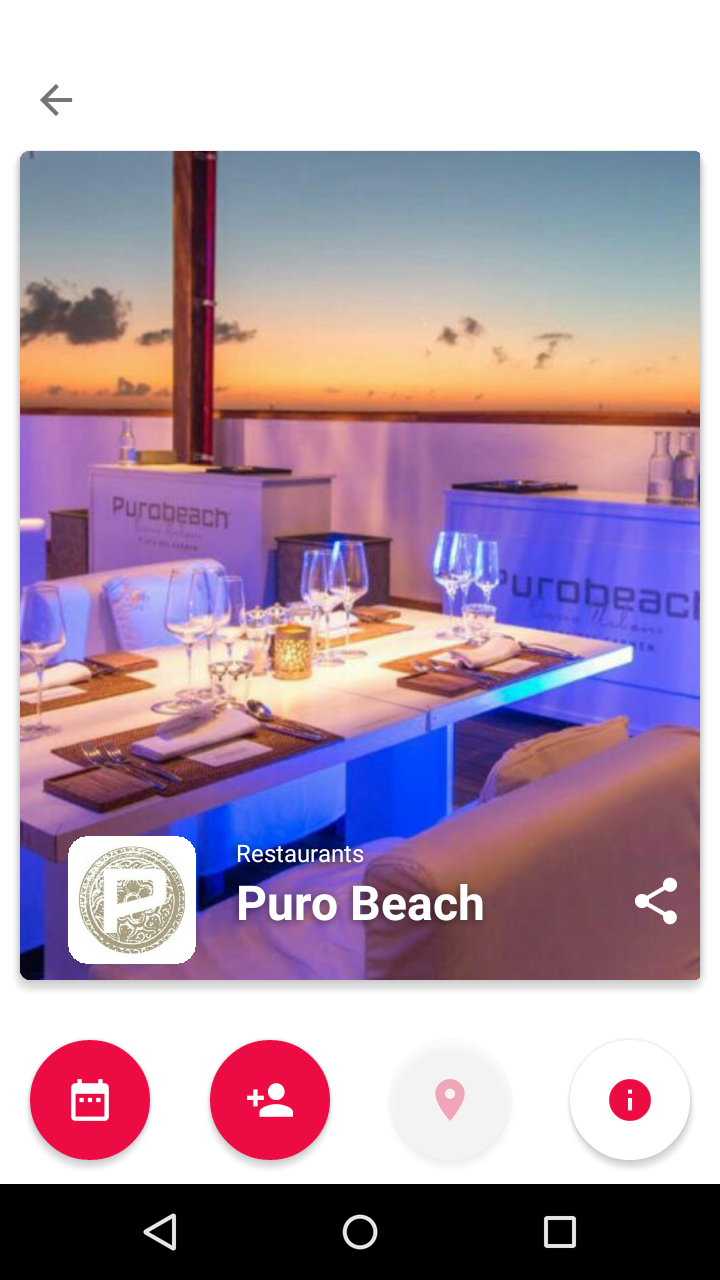
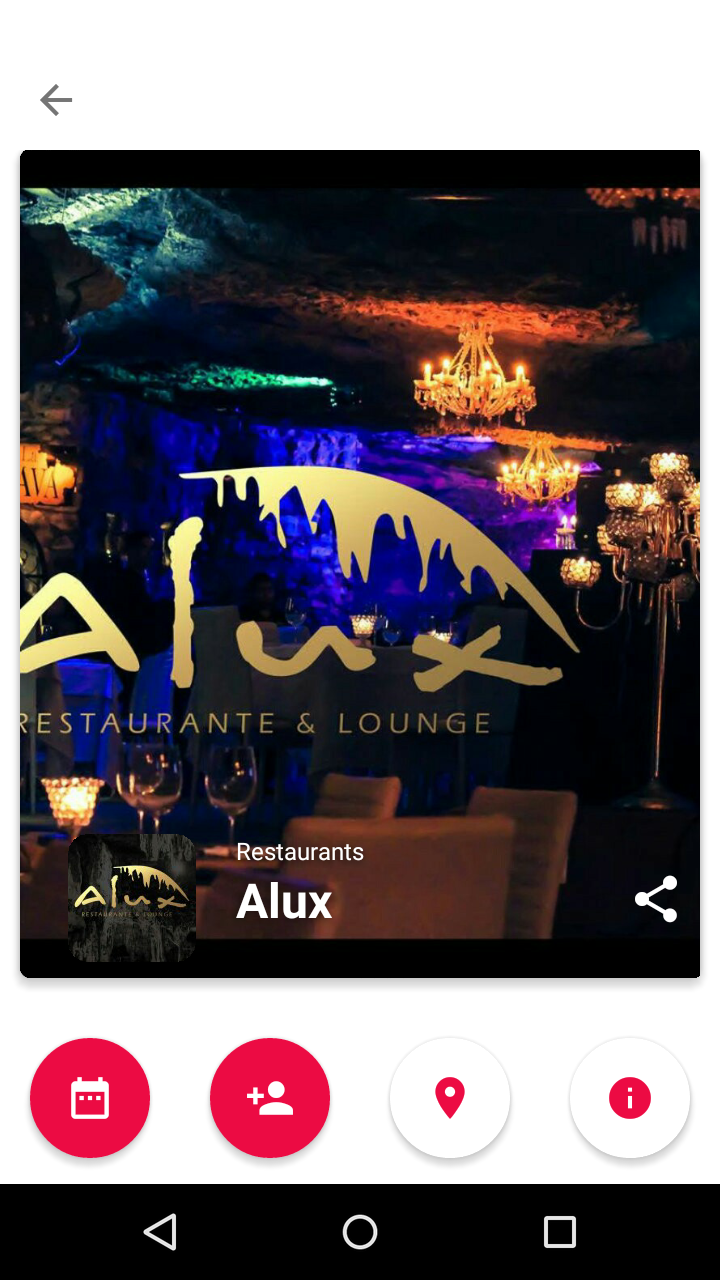
Two Commit

diff --git a/src/modules/App.js b/src/modules/App.js
@@ -1,8 +1,7 @@
 import React, { Component } from 'react'
 import '../assets/App.css'
 import Text from './components/Text'
-import DemoCelColors from './components/DemoCelColors'
-import DemoCelPhone from './components/DemoCelPhone'
+import DemoCelColors from './components/DemoCel'
 
 class App extends Component {
   constructor (props) {
@@ -16,6 +15,62 @@ class App extends Component {
     this.setState({position: this.state.position + 1})
   }
 
+  decreasePosition = () =>{
+    this.setState({position: this.state.position - 1})
+  }
+
+  renderSwitch = (param) => {
+    switch (param) {
+      case 0:
+        return(
+          <div className='mainView views' onClick={this.increasePosition}>
+            <a>Button</a>
+          </div>
+        )
+      case 1:
+        return(
+          <div>
+             <div className='back views' onClick={this.decreasePosition}>
+              <a>Button</a>
+            </div>
+            <div className='venuesView views' onClick={this.increasePosition}>
+              <a>Button</a>
+            </div>
+            <div className='backAndroid views' onClick={this.decreasePosition}>
+              <a>Button</a>
+            </div>
+          </div>
+         
+        )
+      case 2:
+        return(
+          <div>
+            <div className='back views' onClick={this.decreasePosition}>
+              <a>Button</a>
+            </div>
+            <div className='venuePage views' onClick={this.increasePosition}>
+              <a>Button</a>
+            </div>
+            <div className='backAndroid views' onClick={this.decreasePosition}>
+              <a>Button</a>
+            </div>
+          </div>
+          
+        )
+      case 3:
+        return(
+          <div>
+            <div className='close views' onClick={this.decreasePosition}>
+              <a>Button</a>
+            </div>
+            <div className='RegisterView views' onClick={this.increasePosition}>
+              <a>Button</a>
+            </div>
+          </div>
+        )    
+    }
+  }
+
   render () {
     return (
       <div className='App'>
@@ -24,9 +79,13 @@ class App extends Component {
             position={this.state.position}
           />
         </div>
-        <div className='democel' onClick={this.increasePosition}>
+        <div className='democel' >
+        {
+          this.renderSwitch(this.state.position)
+        }
+          
           <DemoCelColors 
-            
+            position={this.state.position}
           />
         </div>
       </div>

diff --git a/src/modules/components/DemoCel.js b/src/modules/components/DemoCel.js
@@ -1,0 +1,38 @@
+import React, { Component } from 'react'
+import '../assets/DemoCelColors.css'
+import nexus from '../assets/nexus6.png'
+import MainScreen from '../assets/Views/MainScreen.png'
+import VenuesSelectScreen from '../assets/Views/VenuesSelectScreen.png'
+import VenueScreen from '../assets/Views/VenueScreen.png'
+import ReservationScreen from '../assets/Views/ReservationFormScreen.jpg'
+
+class DemoCel extends Component {
+  render () {
+    const screens = [
+      MainScreen,
+      VenuesSelectScreen,
+      VenueScreen,
+      ReservationScreen
+    ]
+    return (
+      <div className='cel' style={{background: `url(${nexus}) no-repeat center top`, backgroundSize: '100%'}}>
+        <div className='contentCel' style={{background: `url(${screens[this.props.position]}) no-repeat center top / 100%`}} >
+          {
+            this.props.position === 3
+              ? <div className='reserPage' style={{background: `url(${screens[this.props.position]}) no-repeat center top / 100%`}}>
+                <input type='text' className='name' />
+                <input type='text' />
+                <input type='text' />
+                <input type='text' className='optional' />
+                <input type='text' className='hotel' />
+                <div style={{height: '20px'}} />
+              </div>
+              : <div />
+          }
+        </div>
+      </div>
+    )
+  }
+}
+
+export default DemoCel

diff --git a/src/assets/App.css b/src/assets/App.css
@@ -8,7 +8,7 @@
   background-color: aliceblue;
 }
 
-.text{
+.text {
   display: flex;
   justify-content: center;
   align-items: center;
@@ -16,10 +16,73 @@
   flex: 1;
 }
 
-.democel{
+.democel {
   display: flex;
   justify-content: center;
   align-items: center;
   padding: 8px;
   flex: 1;
+}
+
+.views {
+  background-color: rgb(0, 0, 0, .19);
+  color: transparent;
+  position: absolute;
+  border-radius: 4px;
+}
+
+.mainView {
+  width: 61px;
+  height: 65px;
+  margin: -50px;
+  margin-top: 28px;
+}
+
+.venuesView {
+  width: 93px;
+  height: 108px;
+  margin: -39px;
+  margin-top: -95px;
+  margin-left: 60px;
+}
+
+.venuePage {
+  width: 38px;
+  height: 42px;
+  margin: -67px;
+  margin-top: 124px;
+  margin-left: 58px;
+}
+
+.RegisterView {
+  width: 178px;
+  height: 28px;
+  margin: -68px;
+  margin-top: 167px;
+  margin-left: 71px;
+}
+
+.close {
+  width: 20px;
+  height: 28px;
+  margin: -68px;
+  margin-top: -195px;
+  margin-left: 71px;
+}
+
+.back {
+  width: 21px;
+  height: 28px;
+  margin: -68px;
+  margin-top: -183px;
+  margin-left: 56px;
+}
+
+.backAndroid {
+  width: 28px;
+  height: 30px;
+  margin: -68px;
+  margin-top: 173px;
+  margin-left: 86px;
+  background: rgb(255,255,255,.19);
 }

diff --git a/src/modules/assets/DemoCelColors.css b/src/modules/assets/DemoCelColors.css
@@ -11,10 +11,38 @@
     max-height: 100%;
 }
 
-.contentCel{
+.contentCel {
     margin-top: 31px;
     margin-left: 1px;
     margin-bottom: 30px;
     width: 227px;
     height: 403px;
+    overflow: auto;
+    -webkit-overflow-scrolling: touch;
+}
+
+.contentCel::-webkit-scrollbar {
+    display: none;
+}
+
+.reserPage {
+    padding-top: 120px;
+    margin-top: 8px;
+    margin-bottom: 6px;
+}
+
+.reserPage input {
+    margin-bottom: 39px;
+    margin-left: 25px;
+    width: 180px;
+    background-color: rgb(0, 0, 0, .20);
+    border: none;
+}
+
+.optional {
+    margin-top: 64px;
+}
+
+.name {
+    margin-top: 22px;
 }

diff --git a/src/modules/components/Text.js b/src/modules/components/Text.js
@@ -5,8 +5,7 @@ class Text extends Component {
   render () {
     const prhases = [
       'Choose category Restaurants',
-      'Choose International Food subcategory',
-      'Click on restaurant Pure Beach',
+      'Click on restaurant Alux',
       'Click on book and fill in the data',
       'The venue will accept or reject the proposal',
       'Great! The venue has accepted',
